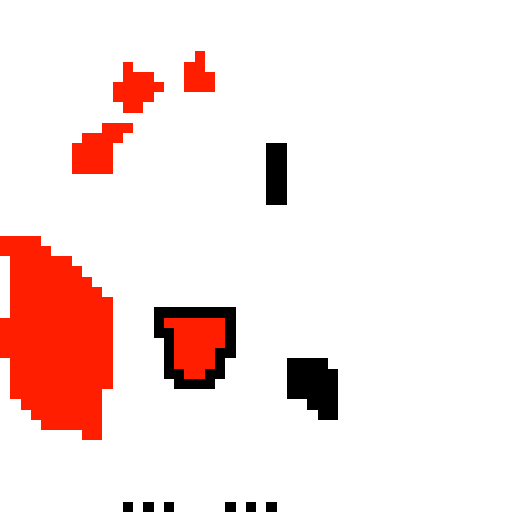
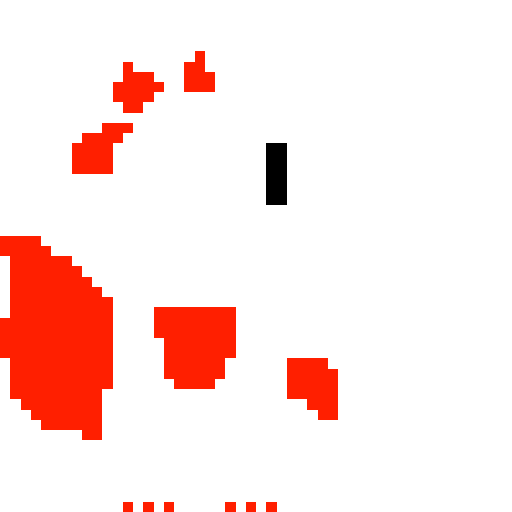
Fix attempt
First test successful, attempting blind fix

diff --git a/monstergen.html b/monstergen.html
@@ -87,11 +87,13 @@
                 data[i + 1] = randomColorGPrim; // green
                 data[i + 2] = randomColorBPrim; // blue
                 }
-                //else if(data[i] == 255 && data[i + 1] == 31 && data[i + 2] == 0){
-                //data[i] = randomColorRSec;     // red
-                //data[i + 1] = randomColorGSec; // green
-               // data[i + 2] = randomColorBSec; // blue
-               // }
+            }
+            for (var i = 0; i < data.length; i += 4) {
+               if(data[i] == 255 && data[i + 1] == 31 && data[i + 2] == 0){
+                data[i] = randomColorRSec;     // red
+                data[i + 1] = randomColorGSec; // green
+                data[i + 2] = randomColorBSec; // blue
+                }
             }
             ctx.putImageData(imageData, 0, 0);
         }
